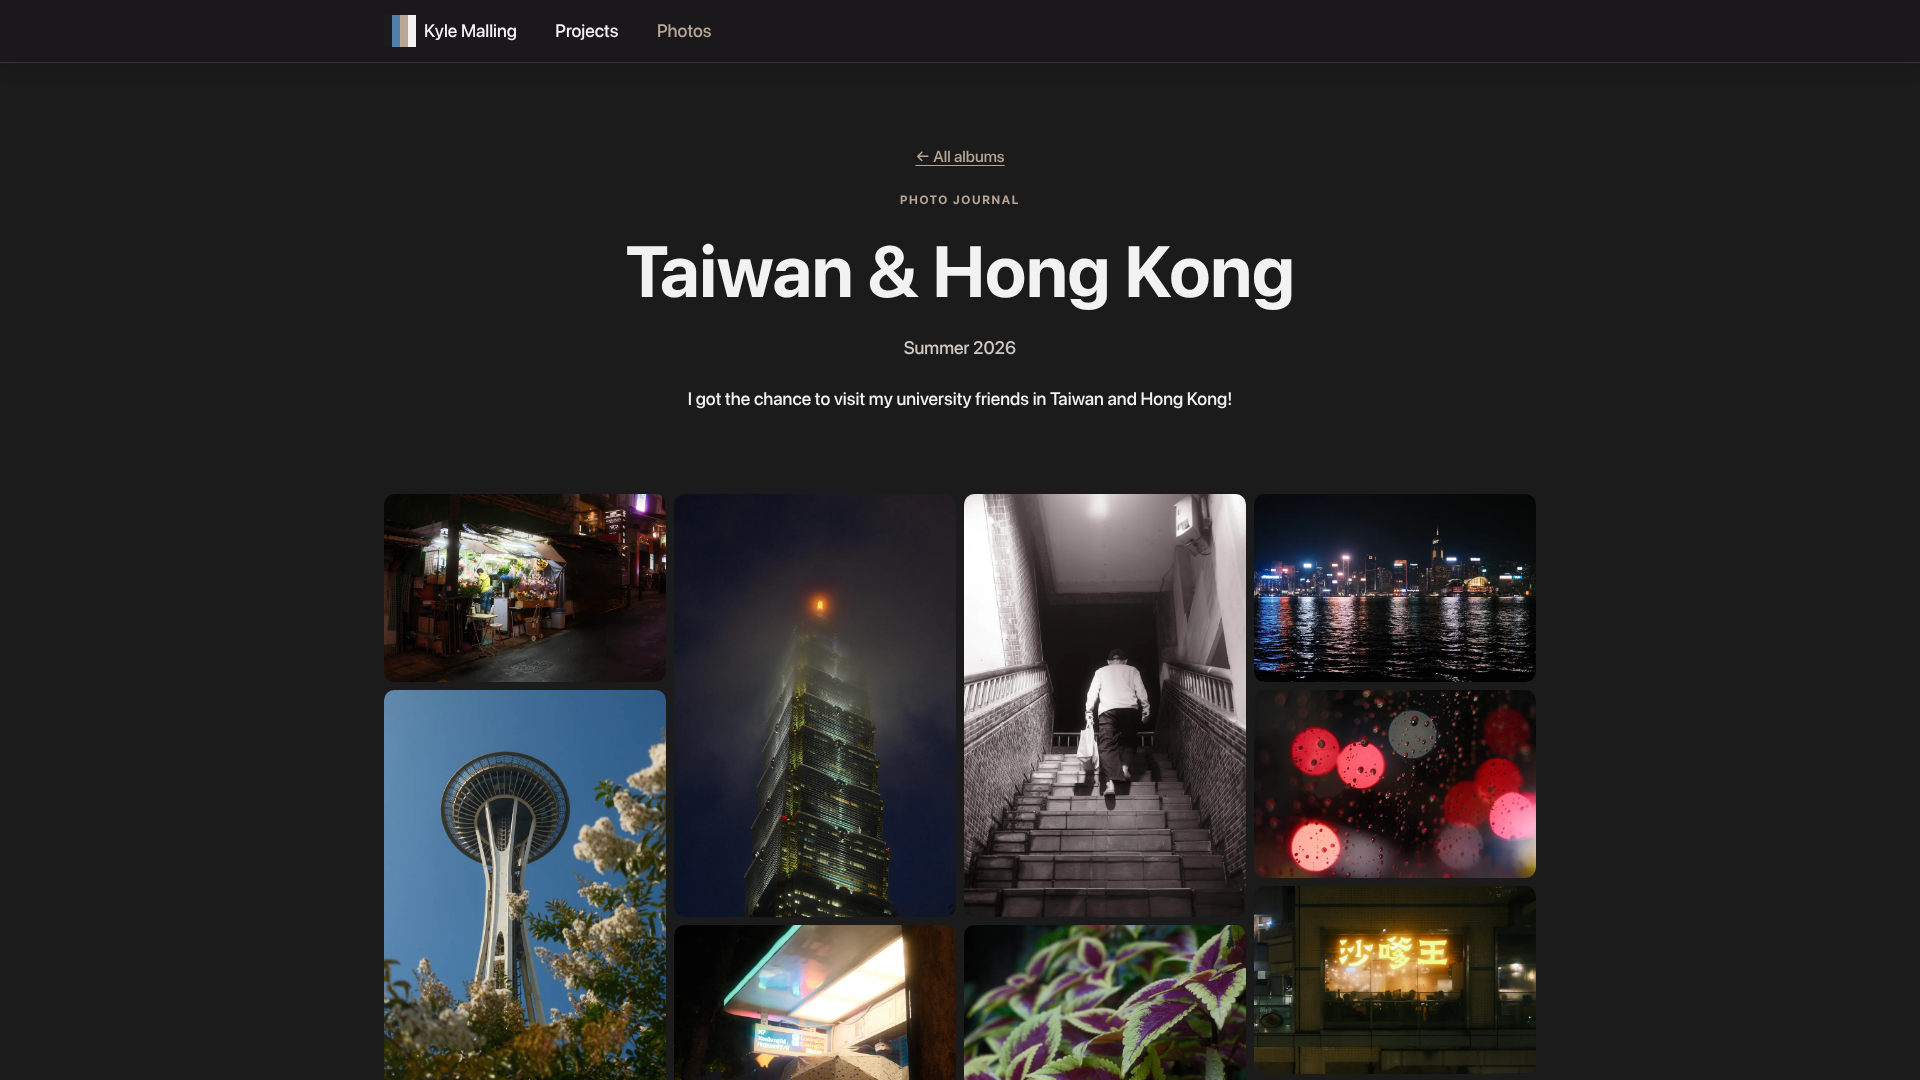
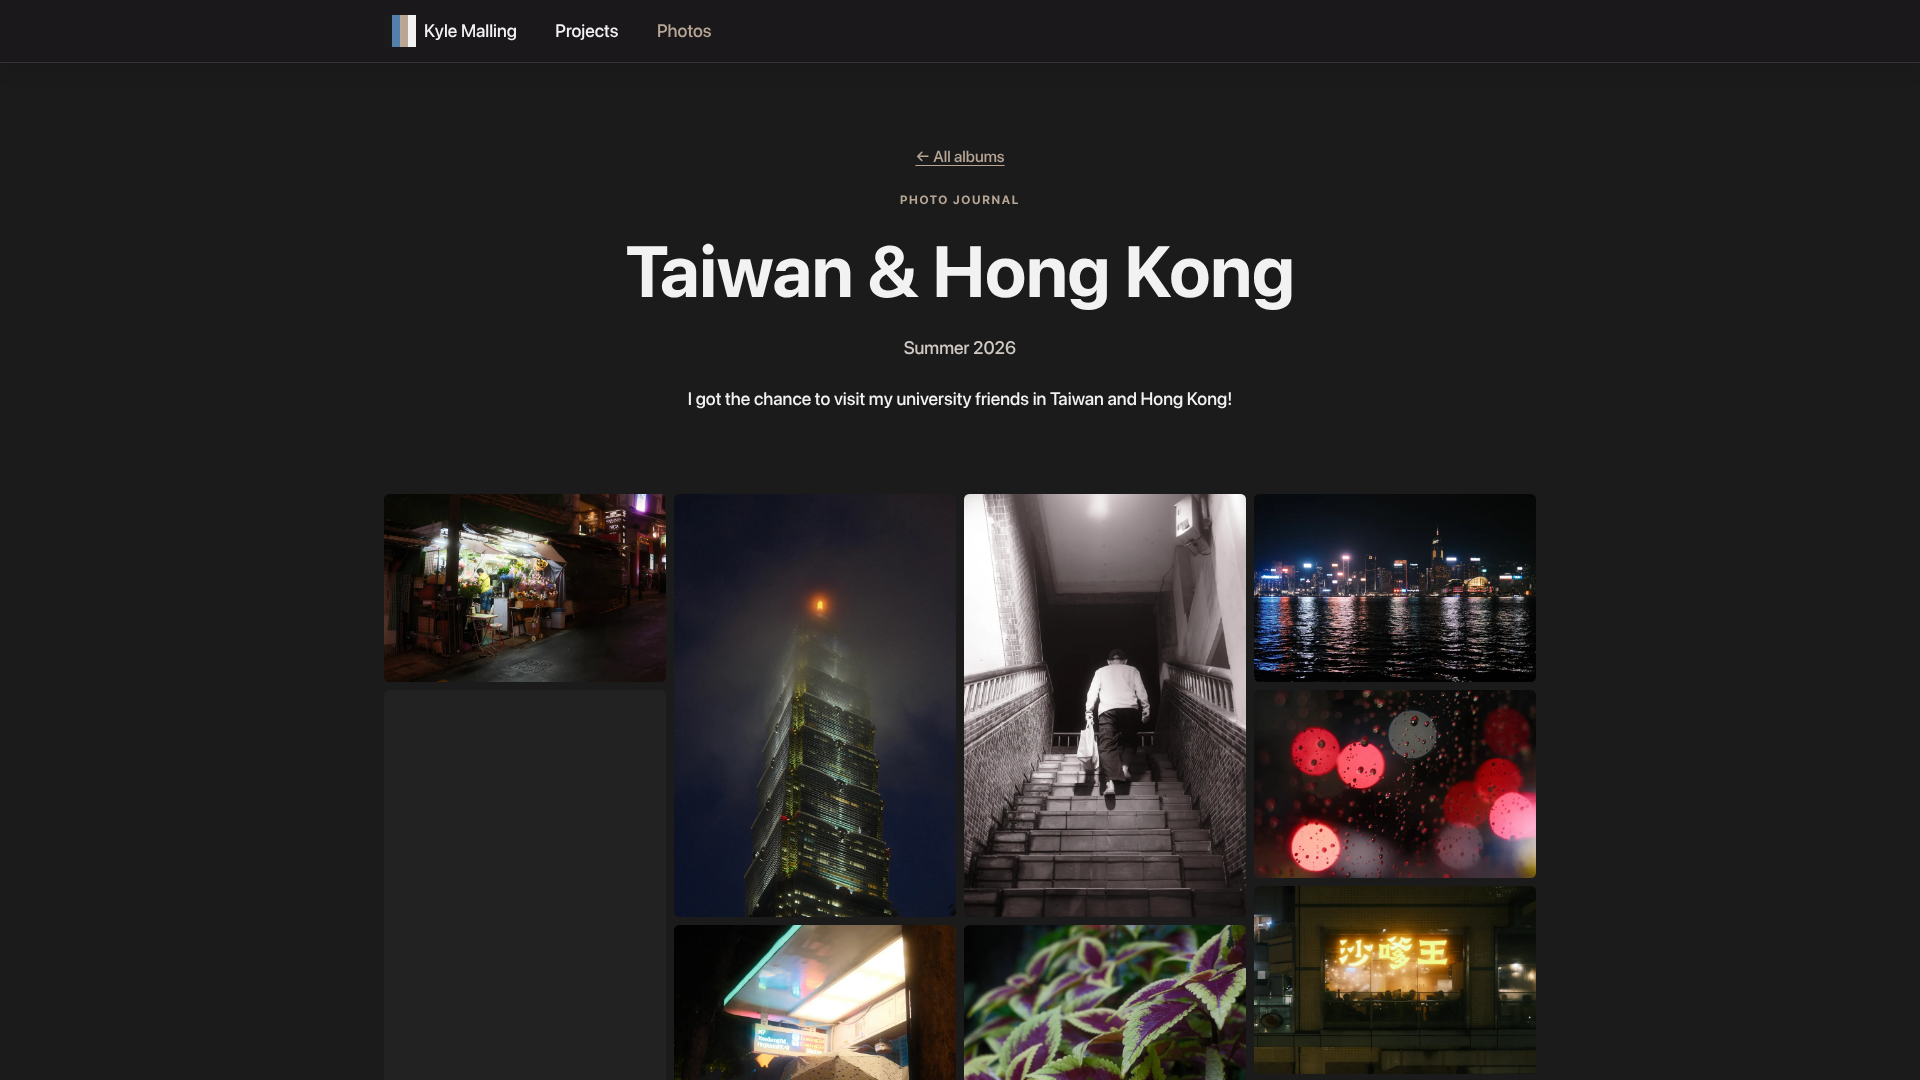
Halve corner radii and refresh 16:9 screenshots

Changed region(s): [[0.1875, 0.6417, 0.3438, 1.0]]

diff --git a/src/styles/global.css b/src/styles/global.css
@@ -18,7 +18,7 @@
   --muted: #d0c9c3;
   --surface: #222;
   --border: #ffffff18;
-  --radius: 1rem;
+  --radius: 0.5rem;
   --page-width: 1200px;
 }
 * {
@@ -353,7 +353,7 @@ img {
   display: block;
   min-height: 3rem;
   background: var(--surface);
-  border-radius: 0.65rem;
+  border-radius: 0.325rem;
   overflow: hidden;
 }
 .photo-link img {
@@ -413,7 +413,7 @@ figcaption {
 .lightbox button {
   border: 1px solid #777;
   background: #242424;
-  border-radius: 0.25rem;
+  border-radius: 0.125rem;
   padding: 0.4rem 0.8rem;
   min-height: 44px;
 }

diff --git a/docs/redesign-2026/README.md b/docs/redesign-2026/README.md
@@ -29,7 +29,7 @@ No deployment or merge into `main` has been performed.
 
 ## 16:9 desktop captures
 
-Viewport screenshots at exactly 1920 × 1080 pixels:
+Updated viewport screenshots at exactly 1920 × 1080 pixels after halving all corner radii (cards and headers: 8px; gallery photos: 5.2px). The full-page captures above show the earlier corner treatment.
 
 - [Photos page](photos-1920x1080.png)
 - [Taiwan & Hong Kong gallery](taiwan-hk-1920x1080.png)
